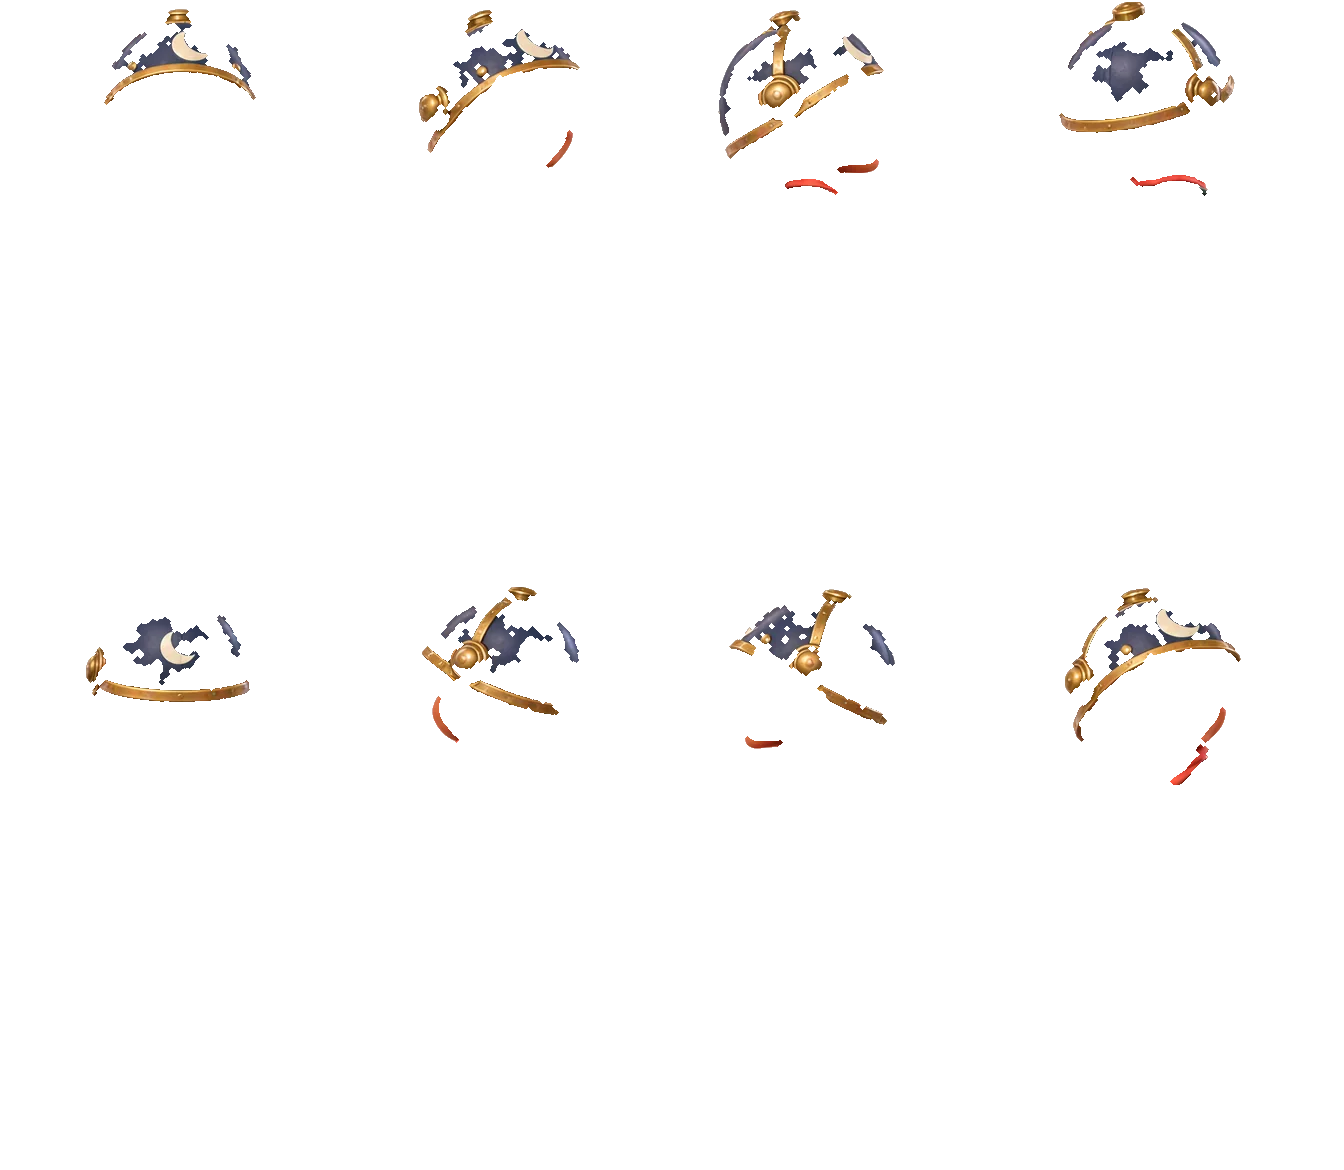
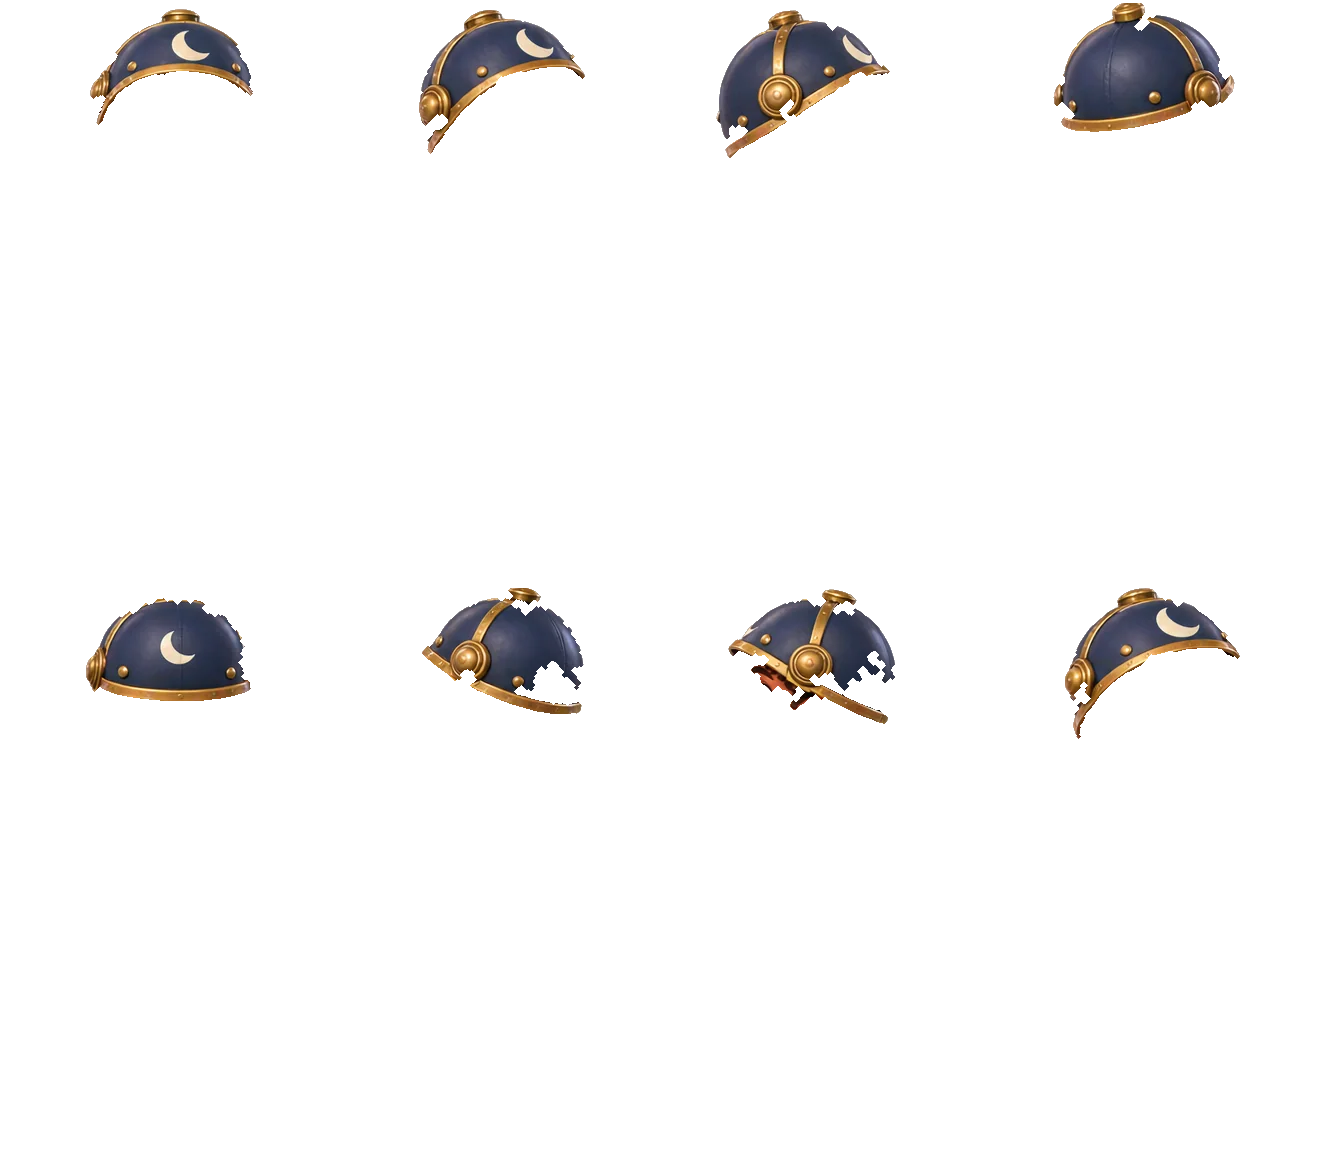
Boy hats (cap, moon helmet, winged helmet) now sit on the chosen hairstyle and colour
Claude-Session: https://claude.ai/code/session_013bSQizeYDjEt4kpuJ7XLpR

diff --git a/character-art.js b/character-art.js
@@ -108,7 +108,7 @@ function characterSheet(gender,item,hair=0,skinIndex=2,hairColorIndex=0,accId=''
   const skin=typeof SKINS!=='undefined'?SKINS[skinIndex]||SKINS[2]:'#bd8058';
   const style=hairstylesFor(gender)[hair]||hairstylesFor(gender)[0];
   if(item?.type==='accessory'){accId=item.id;item=null;}
-  const root=window.CHARACTER_ROOT||'',color=style.bald?0:hairColorIndex,cover=gender==='boy'&&COVER_HATS.includes(accId);
+  const root=window.CHARACTER_ROOT||'',color=style.bald?0:hairColorIndex,cover=false;
   const stylePath=hairstylePath(gender,hair,color),SK=styleKey(gender,hair,color),plainPath=variantPath(gender,item,hair);
   const girlOutfit=gender==='girl'&&item?.type==='outfit';
   const bodyFromItem=item&&!girlOutfit;
